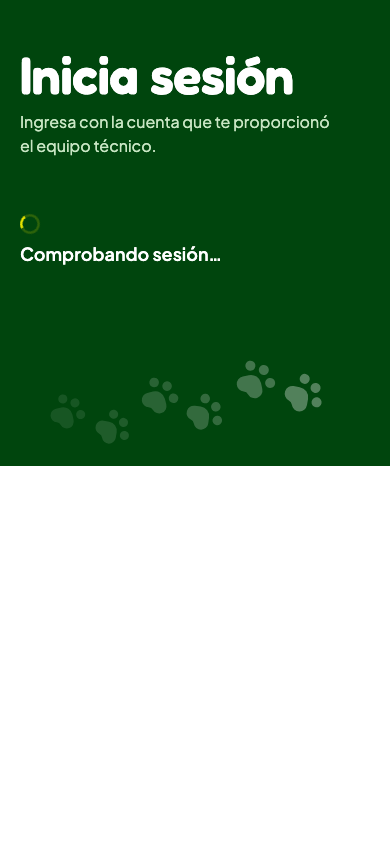
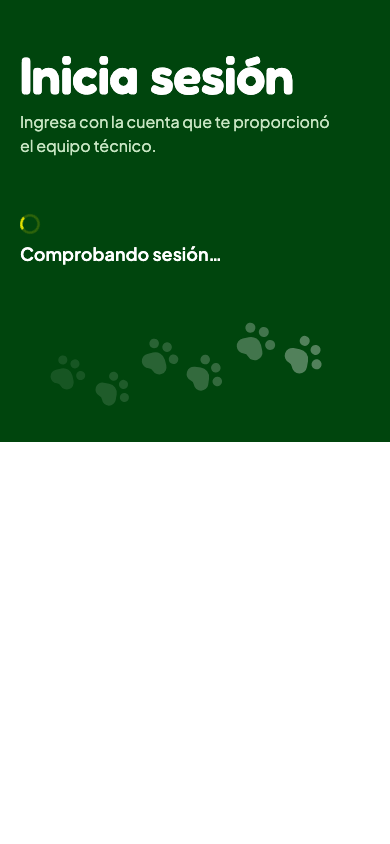
style(design): TD-134 Login: rastro de huellas más arriba

Changed region(s): [[0.0, 0.4005, 1.0, 0.5545], [0.6154, 0.3697, 0.7077, 0.4929], [0.7385, 0.4005, 0.8308, 0.4929]]

diff --git a/components/ui/PawTrail.js b/components/ui/PawTrail.js
@@ -9,12 +9,12 @@ import { PawPrint } from 'lucide-react-native';
 
 // Positions are percentages of the container: a stride heading up and to the right with toes up, growing clearer.
 const steps = [
-  { top: '58%', left: '8%', rotate: '-12deg', size: 38, opacity: 0.09 },
-  { top: '72%', left: '21%', rotate: '10deg', size: 38, opacity: 0.12 },
-  { top: '44%', left: '34%', rotate: '-14deg', size: 40, opacity: 0.16 },
-  { top: '58%', left: '47%', rotate: '8deg', size: 40, opacity: 0.2 },
-  { top: '30%', left: '61%', rotate: '-12deg', size: 42, opacity: 0.26 },
-  { top: '42%', left: '75%', rotate: '10deg', size: 42, opacity: 0.32 },
+  { top: '46%', left: '8%', rotate: '-12deg', size: 38, opacity: 0.09 },
+  { top: '60%', left: '21%', rotate: '10deg', size: 38, opacity: 0.12 },
+  { top: '32%', left: '34%', rotate: '-14deg', size: 40, opacity: 0.16 },
+  { top: '46%', left: '47%', rotate: '8deg', size: 40, opacity: 0.2 },
+  { top: '18%', left: '61%', rotate: '-12deg', size: 42, opacity: 0.26 },
+  { top: '30%', left: '75%', rotate: '10deg', size: 42, opacity: 0.32 },
 ];
 
 function PawTrail({ color = '#ffffff', style }) {

diff --git a/screens/loginScreen.js b/screens/loginScreen.js
@@ -146,6 +146,6 @@ const styles = StyleSheet.create({
   toggleText: { color: colors.signal, fontSize: 14 },
   submit: { marginTop: spacing.xs, borderRadius: 12 },
   footer: { ...type.caption, color: colors.onForest, textAlign: "left" },
-  trail: { flex: 1, minHeight: 120 },
+  trail: { flex: 1, minHeight: 120, marginTop: -spacing.xxl },
   loading: { alignItems: "flex-start", paddingHorizontal: 0 },
 });
